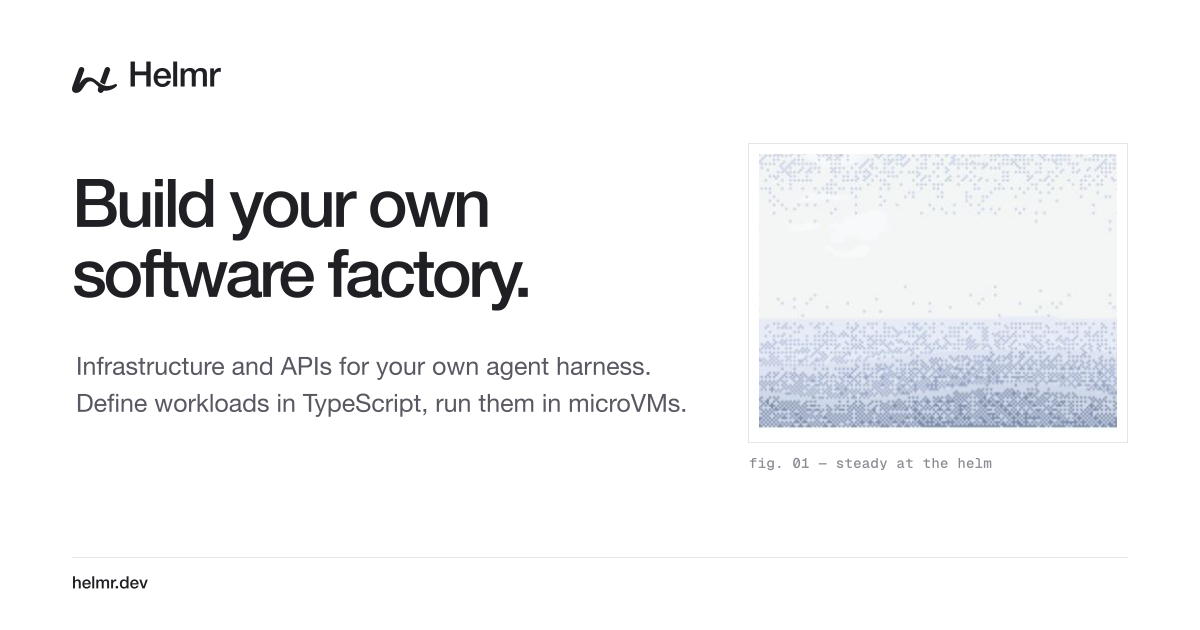
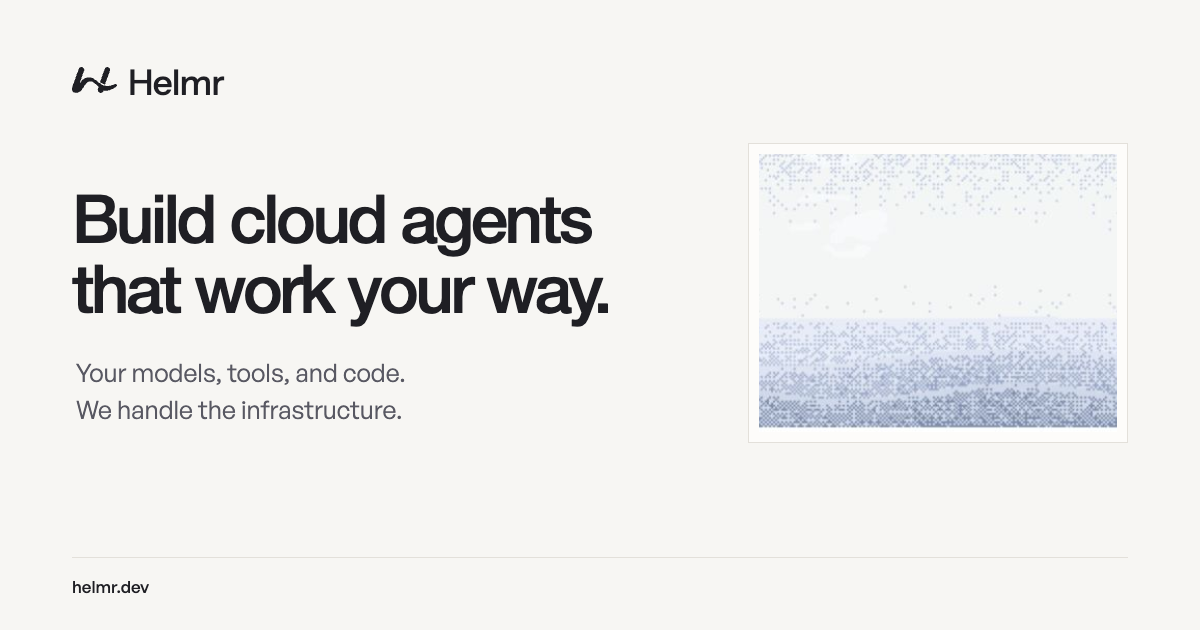
align site metadata with the landing page and index it
Update the site tagline, default title and description, social image,
llms.txt summary and the shared footer to the new landing message, and
allow search engines to index the landing page.

diff --git a/packages/web/src/lib/seo.ts b/packages/web/src/lib/seo.ts
@@ -4,10 +4,10 @@ export const SITE = {
   name: "Helmr",
   url: "https://helmr.dev",
   githubUrl: "https://github.com/helmrdotdev/helmr",
-  tagline: "Build your own software factory",
-  defaultTitle: "Helmr — Build your own software factory",
+  tagline: "Build cloud agents that work your way",
+  defaultTitle: "Helmr — Build cloud agents that work your way",
   defaultDescription:
-    "Infrastructure and APIs for your own agent harness. Define agent workloads in TypeScript and run them in isolated Linux microVMs with durable computers.",
+    "Your models, tools, and code. Helmr runs the coding agents you already use on computers you define in TypeScript, and handles the infrastructure, from durable state to secrets.",
   defaultImage: "/og/helmr.png",
   logoImage: "/web-app-manifest-512x512.png",
   locale: "en_US",

diff --git a/packages/web/src/pages/llms.txt.ts b/packages/web/src/pages/llms.txt.ts
@@ -36,7 +36,7 @@ License: Apache 2.0
 - Every docs page is also served as Markdown by appending .md to the page path.
 
 ## Core Pages
-- [Home](${absoluteUrl("/", base)}): ${SITE.tagline} — infrastructure and APIs for your own agent harness.
+- [Home](${absoluteUrl("/", base)}): ${SITE.tagline} — your models, tools, and code; Helmr handles the infrastructure.
 - [Docs](${absoluteUrl("/docs", base)}): Documentation index for installing, operating, and extending Helmr.
 
 ${docLines}
